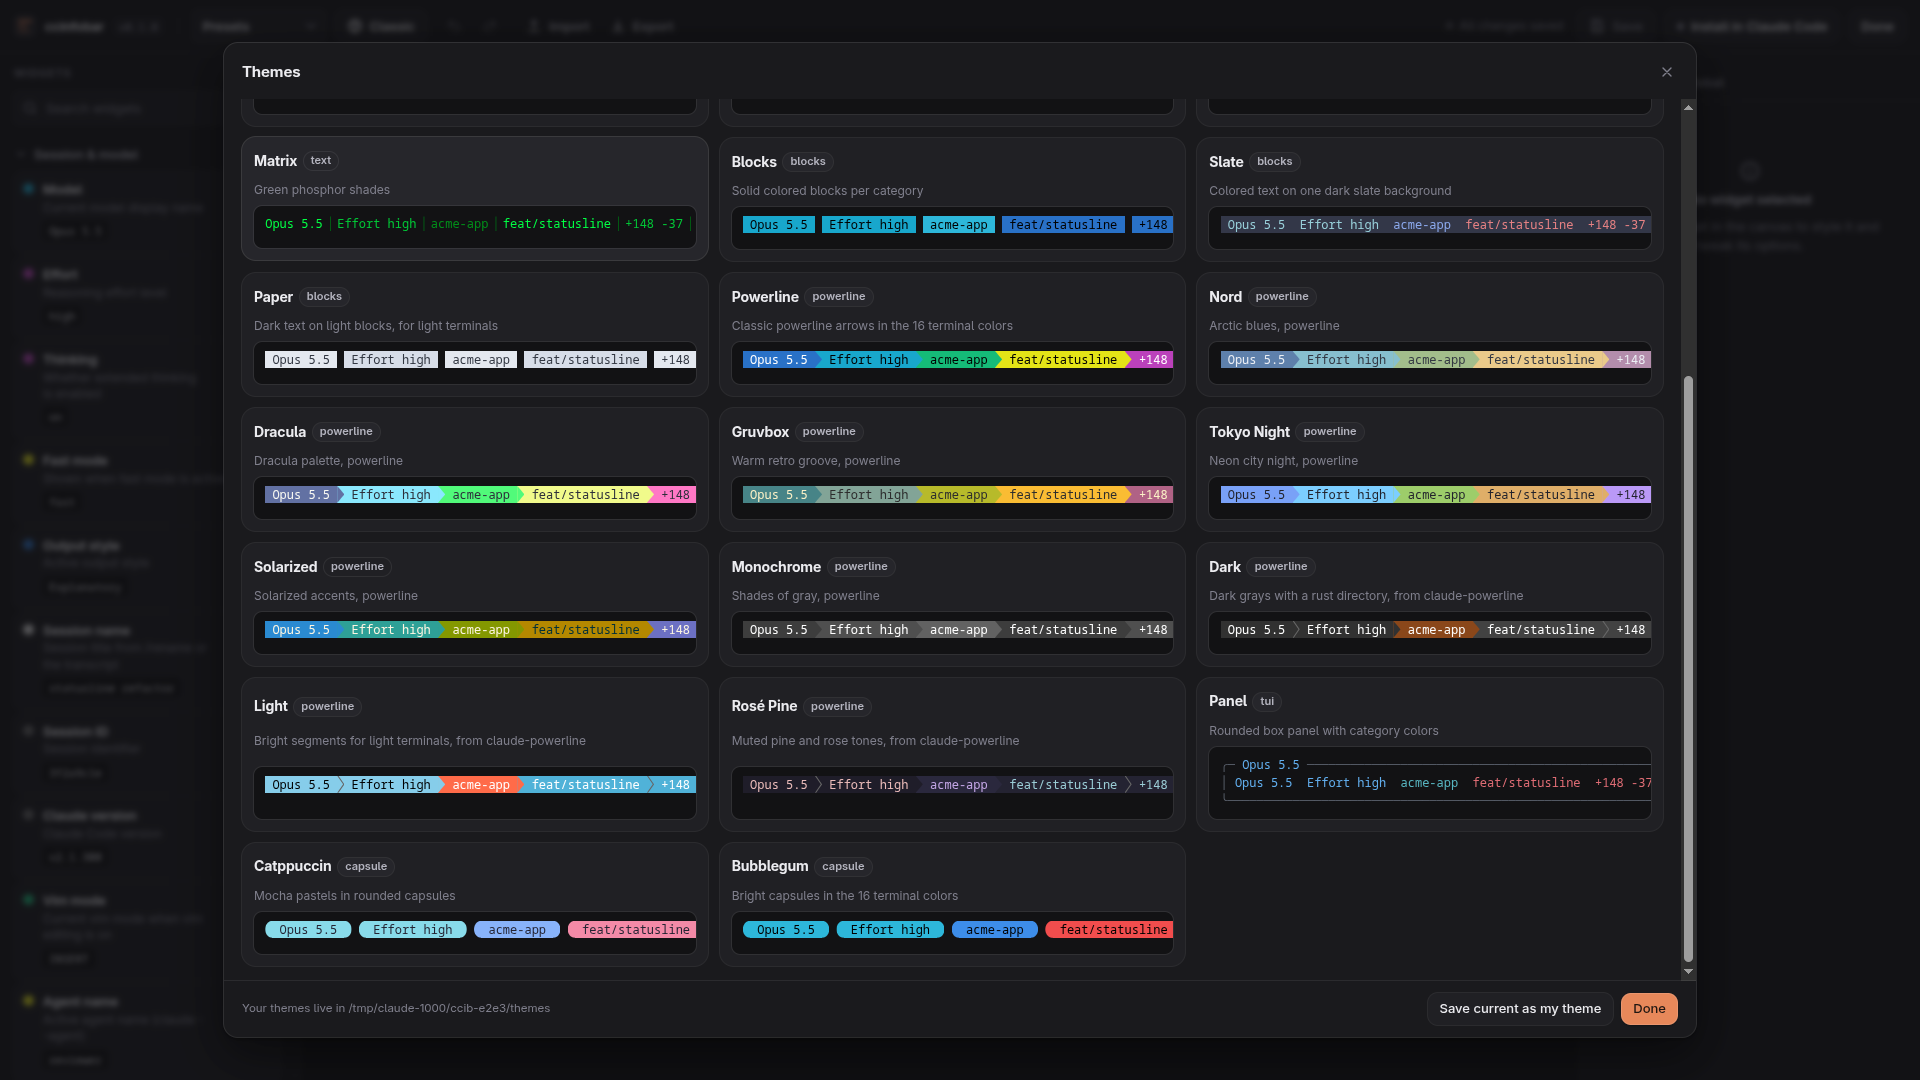
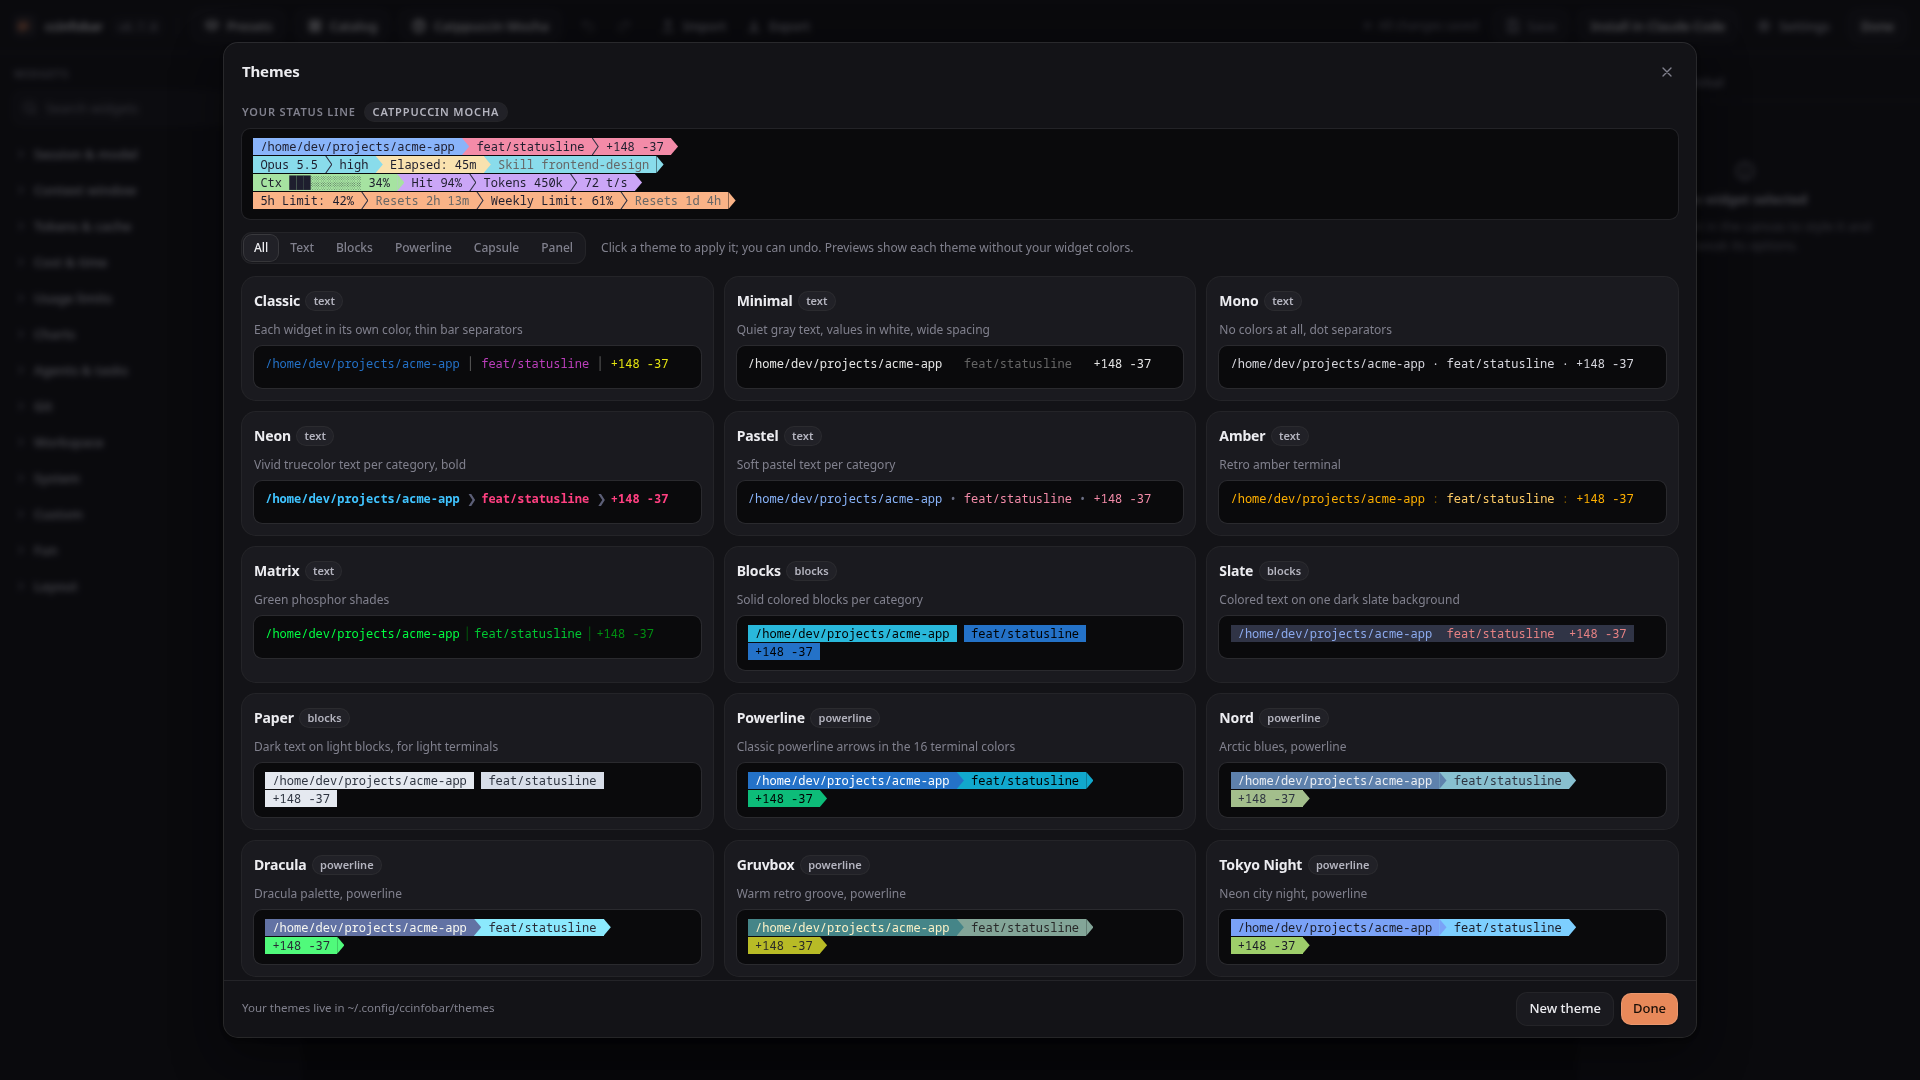
docs: screenshot script and dark and light captures of every editor screen
- scripts/screenshots.mjs drives headless Chrome over CDP at 1920x1080
  against a temp config, home and cache, and refuses to save a shot that
  shows a real home path, user name or repo path
- npm run screenshots, documented in DEVELOPMENT.md
- docs/images/screenshots: editor, presets, catalog, catalog details,
  save to catalog, themes, theme builder, import, install and settings
- themes.png regenerated with the new logo and no temp path

diff --git a/docs/DEVELOPMENT.md b/docs/DEVELOPMENT.md
@@ -23,6 +23,7 @@ Requirements: Node.js 20 or newer. There are no runtime dependencies; everything
 | `npm run check` | Typecheck, lint and test |
 | `npm run docs` | Regenerate `docs/WIDGETS.md`, `schema/config.schema.json` and `schema/theme.schema.json` |
 | `npm run demo` | Regenerate `docs/images/demo.gif` from the sample data (needs Chrome or Chromium and ImageMagick; set `CHROME` to pick a browser) |
+| `npm run screenshots` | Regenerate the README editor screenshots in `docs/images/screenshots/` (dark and light, 1920x1080) from a temp config; needs `npm run build`, Node 22+ and Chrome or Chromium; set `CHROME` to pick a browser, `--only editor,themes` for a subset |
 | `npm run example` | Render `test/fixtures/payload.json` |
 
 Two scripts are not wired into npm or CI: `node scripts/homebrew-formula.mjs` fills in the Homebrew formula for the owner after a release (see [DISTRIBUTION.md](DISTRIBUTION.md#publishing-the-formula-owner)), and `node scripts/startup-probe.mjs` is a dev-only breakdown of where startup time goes, in temp dirs only.
